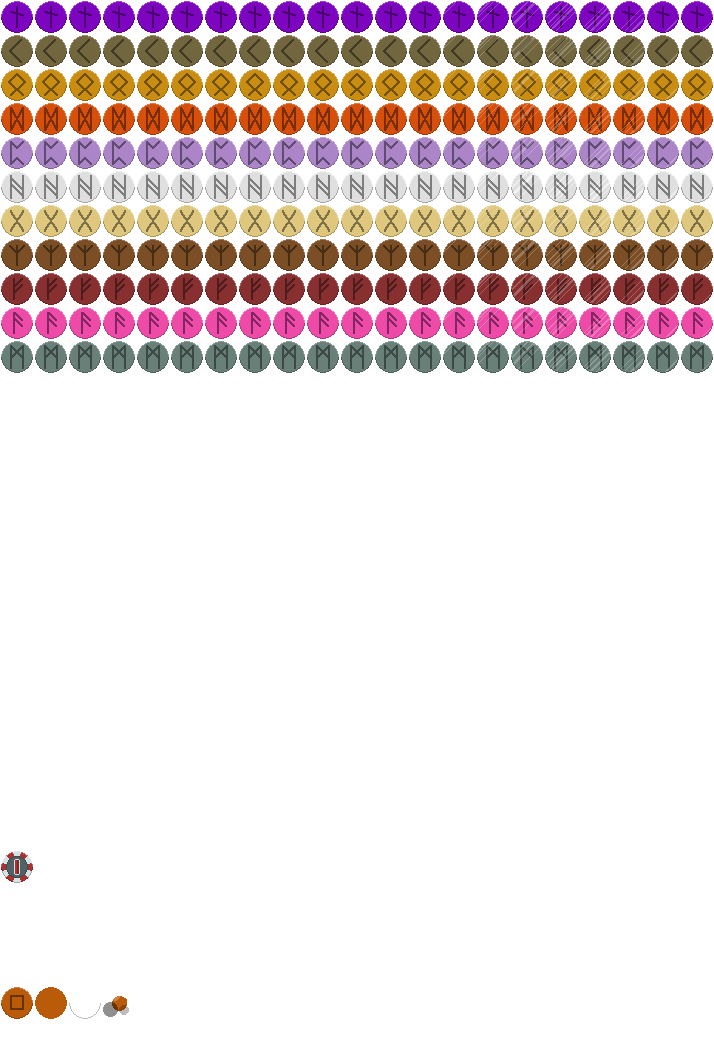
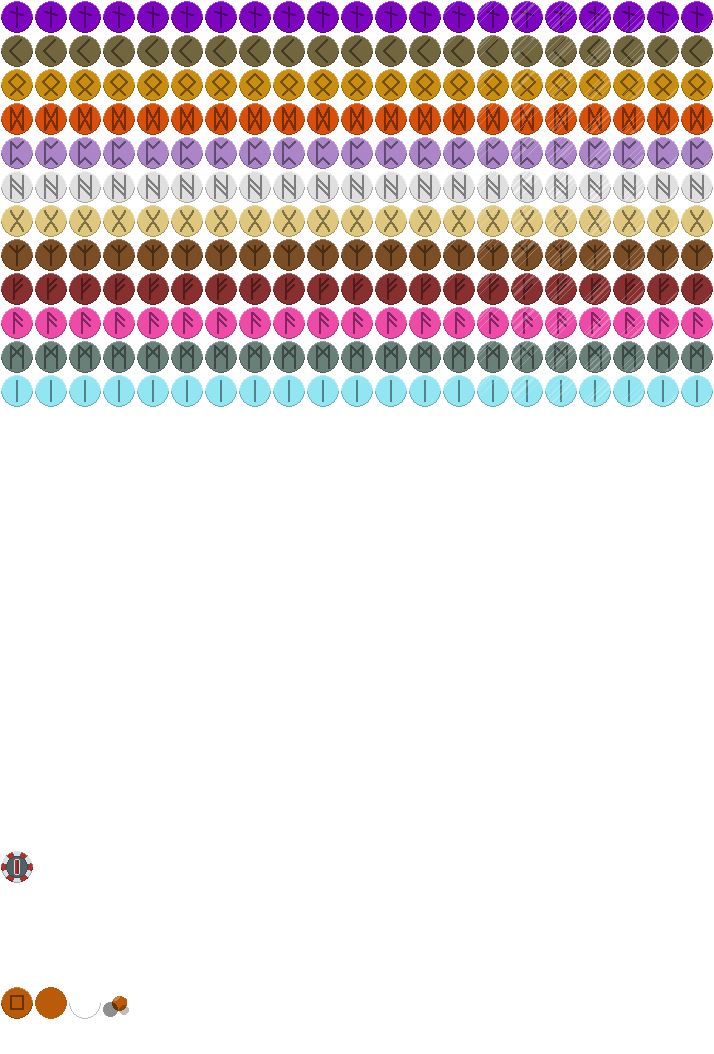
Add the Ice blind

Changed region(s): [[0.0, 0.334, 1.0, 0.3947]]

diff --git a/web/addjokers.js b/web/addjokers.js
@@ -1211,6 +1211,15 @@ let blinds = [
     image_url: "img/bl/collective.png",
     rarity: "Boss Blind"
   },
+  {
+    name: "The Ice",
+    text: [
+      "-1 Hand",
+      "-1 Discard"
+    ],
+    image_url: "img/bl/ice.png",
+    rarity: "Boss Blind"
+  },
   // {
   //   name: "Violet Vessel",
   //   text: [